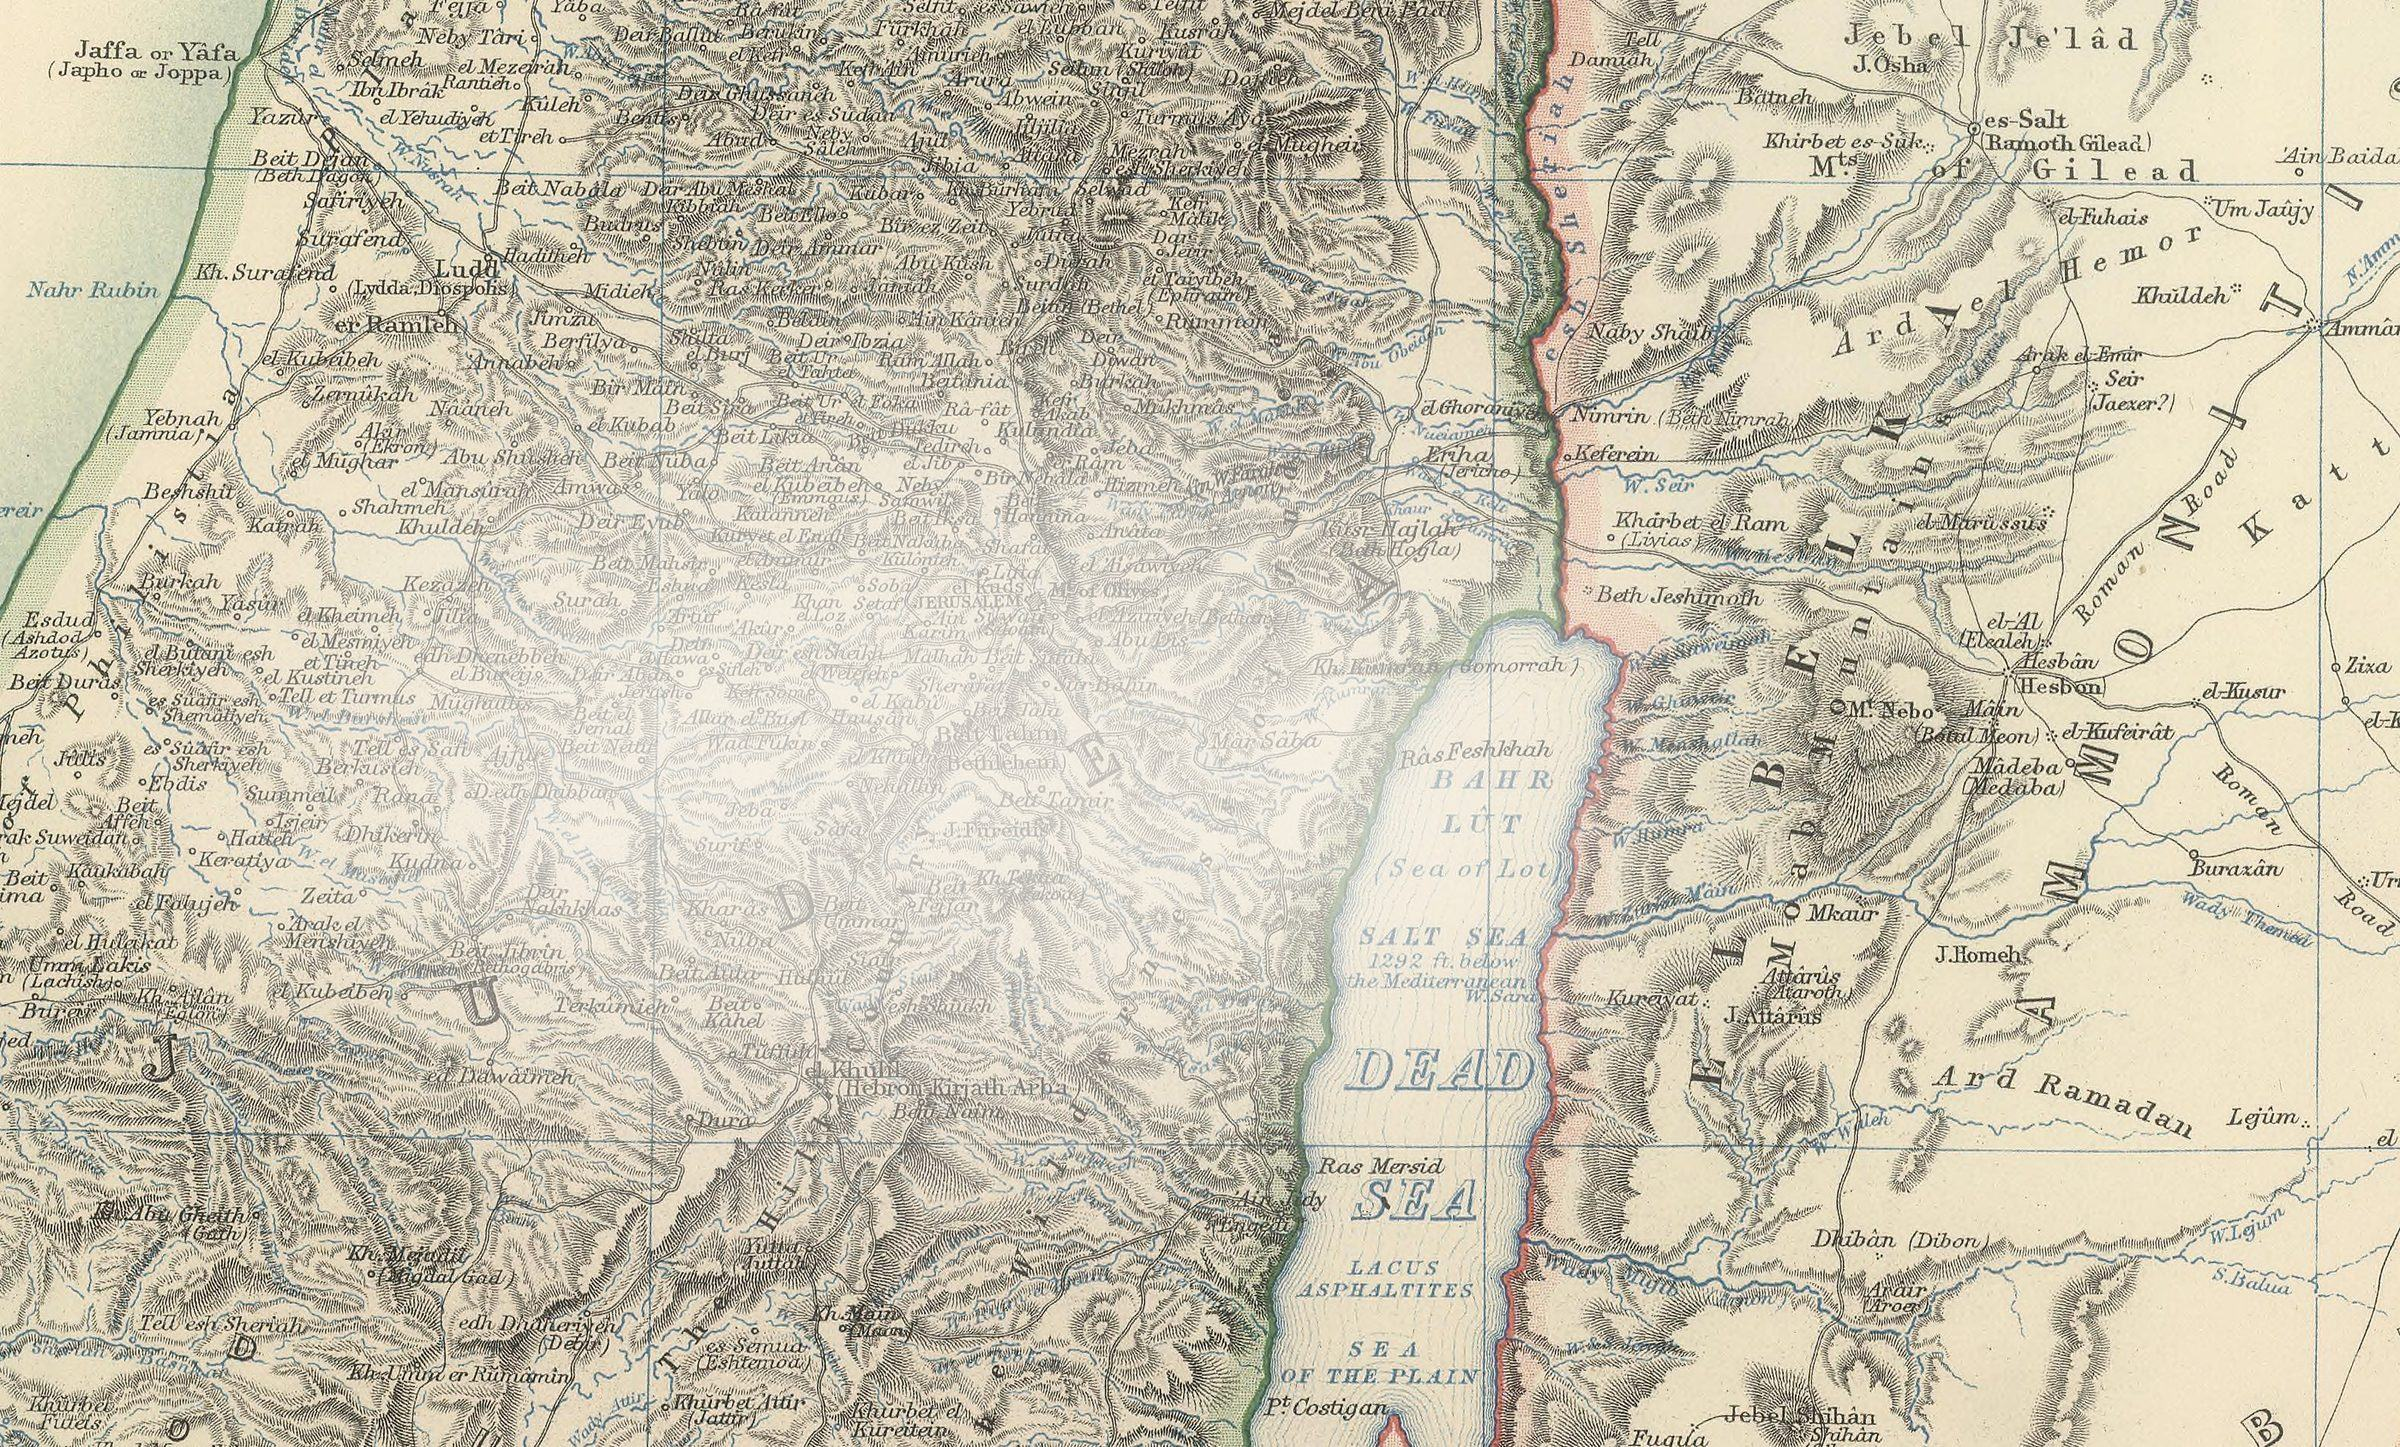
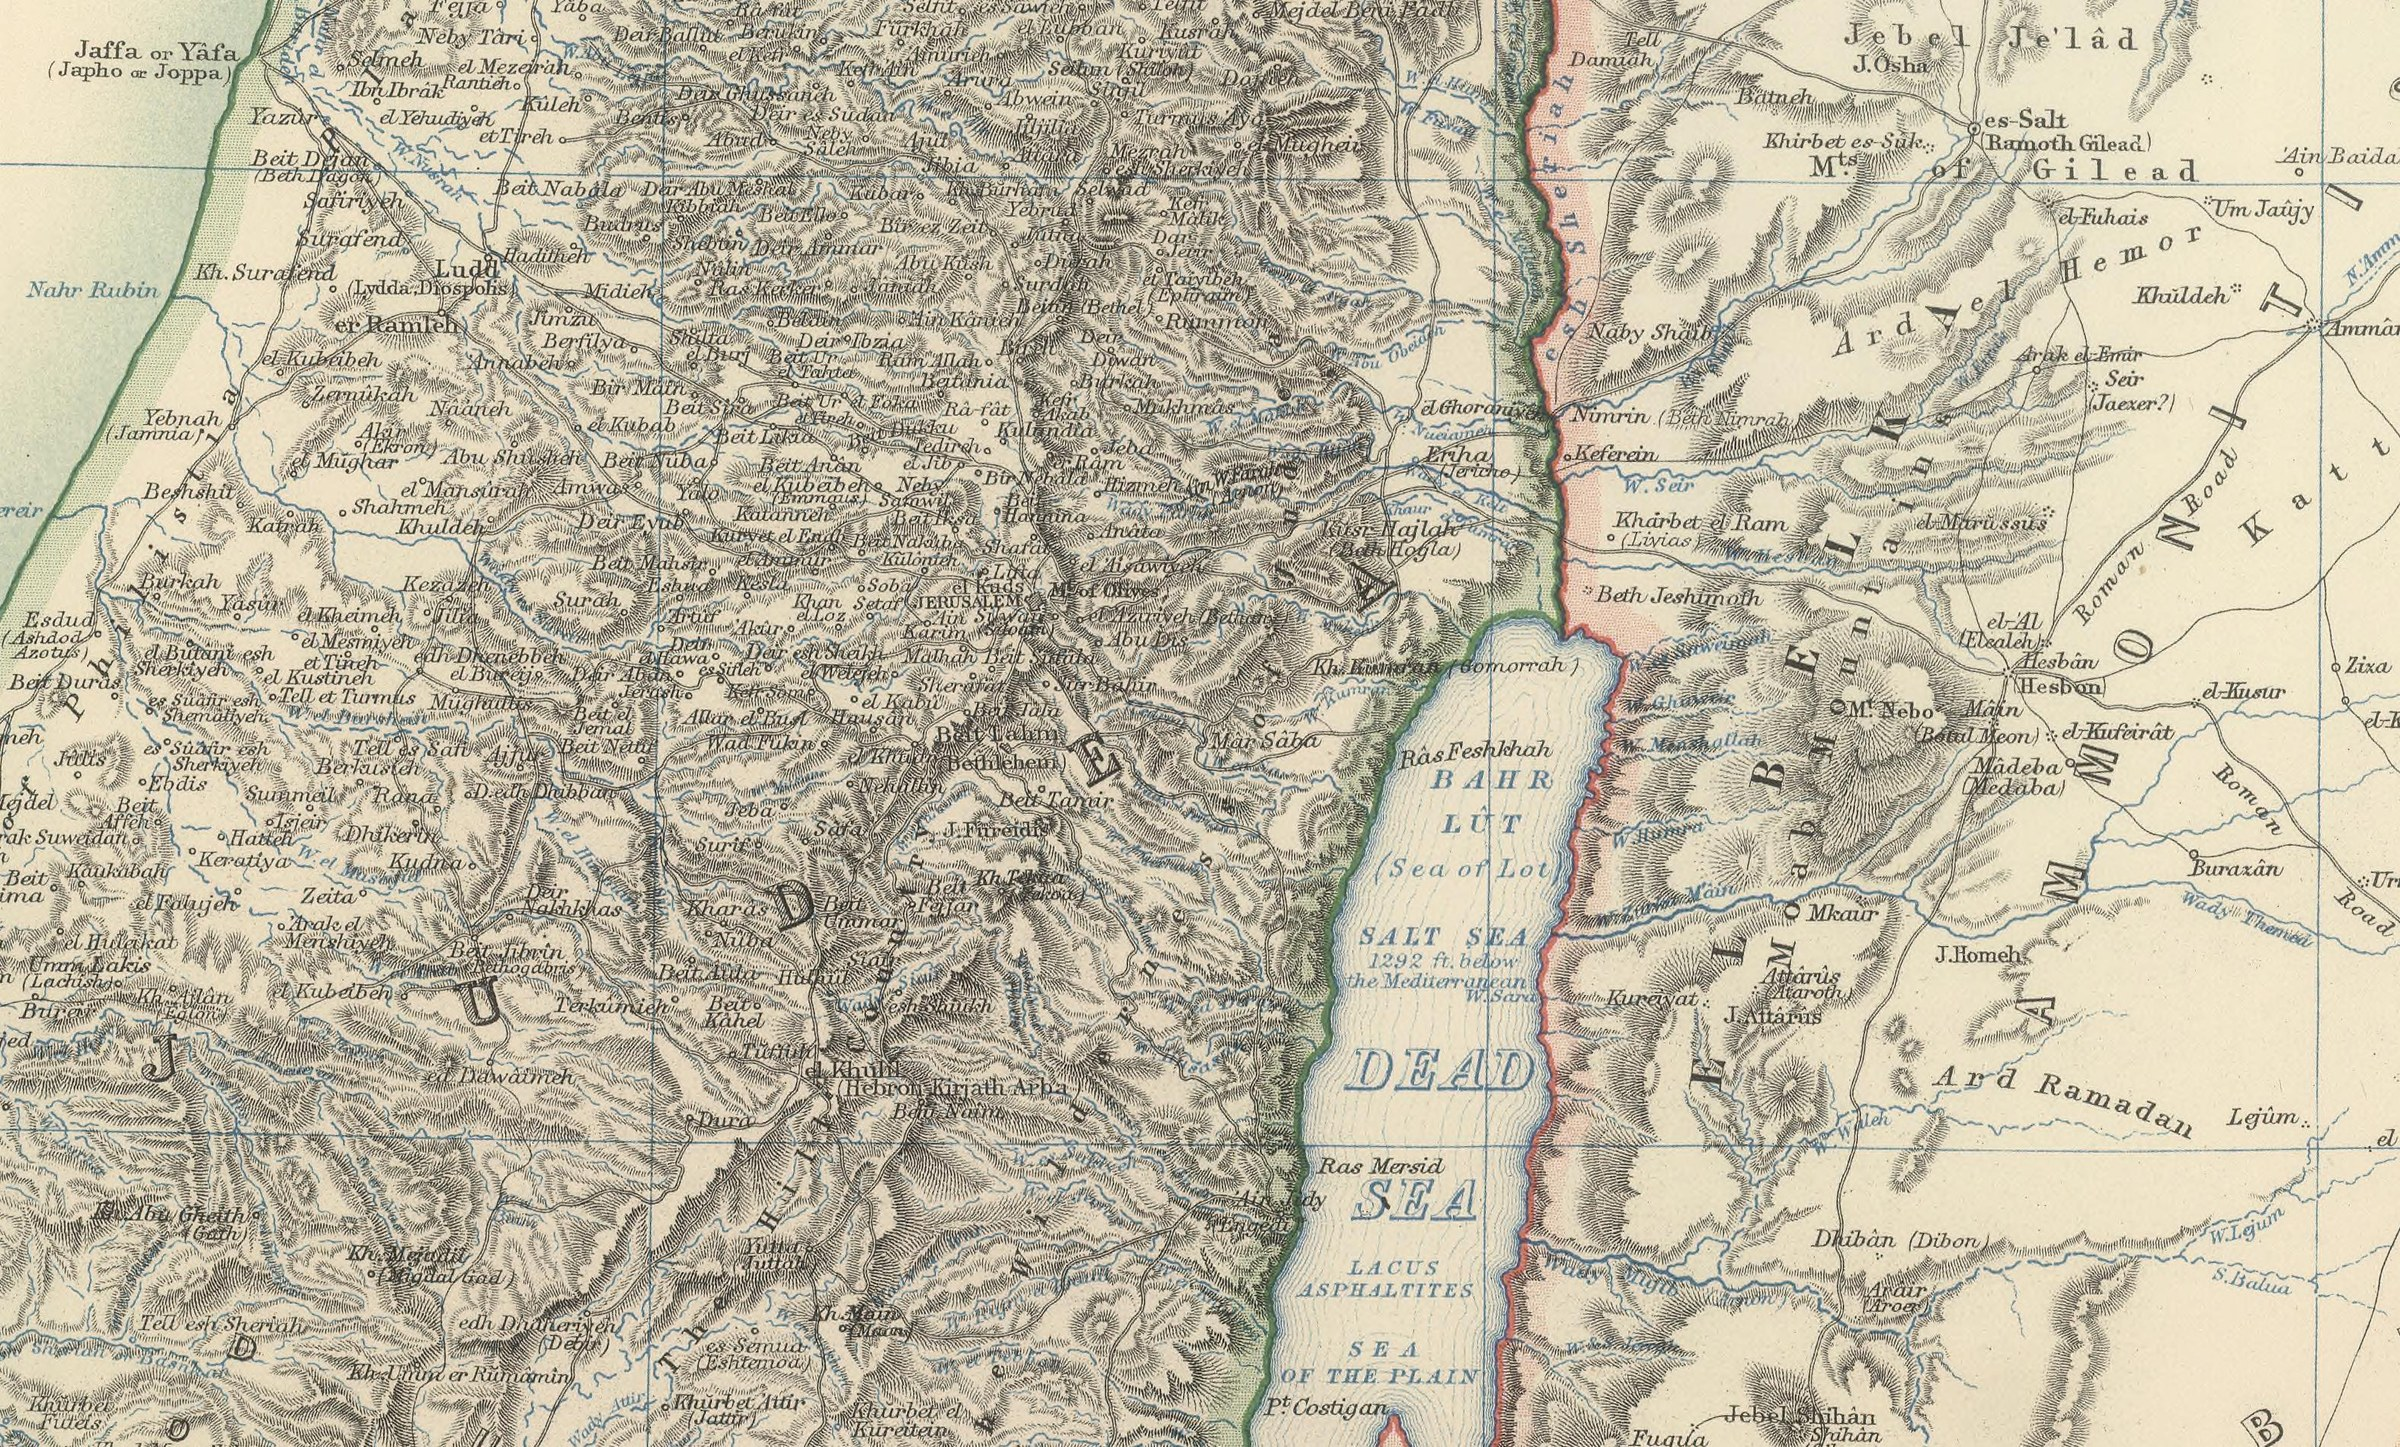
Publish site

diff --git a/styles.css b/styles.css
@@ -111,13 +111,18 @@ figure.painting img:focus-visible,
 }
 
 /* Graduated map hero (homepage): Stieler 1895, dissolving into the paper */
-.hero-visual { position: relative; height: 72vh; min-height: 480px; overflow: hidden; }
-@media (max-width: 700px) { .hero-visual { height: 52vh; min-height: 360px; } }
+.hero-visual { position: relative; height: clamp(480px, 72vh, 660px); overflow: hidden; }
+@media (max-width: 700px) { .hero-visual { height: clamp(360px, 52vh, 460px); } }
 .hero-visual picture { display: contents; }
 .hero-visual img {
   width: 100%; height: 100%;
   object-fit: cover;
-  object-position: center top;
+  /* Frame the centre of the Johnston detail, not its top: this brings
+     Jerusalem (in the pale band) and the Dead Sea into view instead of
+     cropping them off. object-position by percentage keeps the SAME slice of
+     the map on every screen size, so the framing is uniform across browsers
+     (William, 2026-07-13). */
+  object-position: center 42%;
 }
 .hero-visual::after {
   content: "";
@@ -160,6 +165,14 @@ figure.painting img:focus-visible,
    own red lettering. */
 @media (min-width: 1001px) { .hero-text { bottom: 84px; } }
 .hero-text .kicker { font-size: 0.95rem; letter-spacing: 0.18em; color: #7c2f22; }
+/* Keep each institution on one line, and on phones stack them (dropping the
+   middot) so the credit never wraps mid-name or orphans the separator
+   (William's iPhone, 2026-07-13). */
+.hero-text .kicker .inst { white-space: nowrap; }
+@media (max-width: 560px) {
+  .hero-text .kicker .kicker-sep { display: none; }
+  .hero-text .kicker .inst { display: block; }
+}
 /* The hero's source credit lives at the foot of the page (William's call,
    2026-07-07), quieter than the footer's own lines. */
 .footer-credit { font-size: 0.72rem; opacity: 0.85; }
@@ -379,7 +392,10 @@ figure.painting img:hover { opacity: 0.93; }
 .lightbox {
   position: fixed;
   inset: 0;
-  z-index: 500;
+  /* Above the sticky nav (z 1100) and skip-link (z 1200); at z 500 the nav
+     painted over the overlay and swallowed the close button near the top
+     edge (seen on Stefano's screen 2026-07-13). */
+  z-index: 2000;
   background: rgba(51, 42, 38, 0.94);
   display: flex;
   align-items: center;
@@ -618,8 +634,14 @@ figure.painting img:hover { opacity: 0.93; }
 .station-tip img { width: 180px; height: auto; margin-top: 6px; }
 .station-tip .tip-caption { font-size: 0.7rem; color: #75655d; margin-top: 4px; max-width: 180px; white-space: normal; }
 
-/* Team */
-.team { display: grid; grid-template-columns: repeat(auto-fit, minmax(215px, 1fr)); gap: var(--sp-lg); }
+/* Team: exactly four people, so fix the column count rather than letting
+   auto-fit wrap to an unbalanced 3+1 on wide screens (on a large viewport the
+   6vw hero padding hits its 96px cap and narrows the content column, so
+   auto-fit dropped to three columns - seen on Stefano's screen 2026-07-13).
+   Four across on desktop, 2x2 on tablet, single column on phones. */
+.team { display: grid; grid-template-columns: repeat(4, 1fr); gap: var(--sp-lg); }
+@media (max-width: 1040px) { .team { grid-template-columns: repeat(2, 1fr); } }
+@media (max-width: 460px) { .team { grid-template-columns: 1fr; } }
 .person { border-top: 2px solid var(--ink); padding-top: var(--sp-md); }
 .person h3 { font-size: 1.3rem; margin-bottom: var(--sp-xs); }
 /* A linked name keeps the ink of its unlinked neighbours, with a quiet

diff --git a/index.html b/index.html
@@ -16,7 +16,7 @@
 <meta name="twitter:card" content="summary_large_image">
 <link rel="icon" href="assets/favicon.svg?v=2" type="image/svg+xml">
 <link rel="stylesheet" href="https://unpkg.com/leaflet@1.9.4/dist/leaflet.css" integrity="sha256-p4NxAoJBhIIN+hmNHrzRCf9tD/miZyoHS5obTRR9BMY=" crossorigin="">
-<link rel="stylesheet" href="styles.css?v=a4c5bd9ce0">
+<link rel="stylesheet" href="styles.css?v=0731506563">
 </head>
 <body>
 
@@ -48,7 +48,7 @@
   <div class="hero-text">
     <div class="wrap">
       <h1>Rediscovering Victorian Women Travellers</h1>
-      <p class="kicker">University of Hertfordshire &middot; North Hertfordshire Museum</p>
+      <p class="kicker"><span class="inst">University of Hertfordshire</span><span class="kicker-sep"> &middot; </span><span class="inst">North Hertfordshire Museum</span></p>
       <p class="subtitle">Margaret Thomas, Henrietta Pilkington and the Victorian journey to Palestine and Syria</p>
     </div>
   </div>

diff --git a/404.html b/404.html
@@ -8,7 +8,7 @@
 <link rel="preconnect" href="https://fonts.gstatic.com" crossorigin>
 <link href="https://fonts.googleapis.com/css2?family=Fraunces:ital,opsz,wght@0,9..144,400;0,9..144,600;1,9..144,400;1,9..144,600&family=Cabin:wght@500;700&family=Source+Serif+4:ital,wght@0,400;0,600;1,400&display=swap" rel="stylesheet">
 <link rel="icon" href="/victorianwomentravellers/assets/favicon.svg?v=2" type="image/svg+xml">
-<link rel="stylesheet" href="/victorianwomentravellers/styles.css?v=a4c5bd9ce0">
+<link rel="stylesheet" href="/victorianwomentravellers/styles.css?v=0731506563">
 </head>
 <body>
 

diff --git a/artists.html b/artists.html
@@ -15,7 +15,7 @@
 <meta property="og:type" content="website">
 <meta name="twitter:card" content="summary_large_image">
 <link rel="icon" href="assets/favicon.svg?v=2" type="image/svg+xml">
-<link rel="stylesheet" href="styles.css?v=a4c5bd9ce0">
+<link rel="stylesheet" href="styles.css?v=0731506563">
 </head>
 <body>
 

diff --git a/contact.html b/contact.html
@@ -15,7 +15,7 @@
 <meta property="og:type" content="website">
 <meta name="twitter:card" content="summary_large_image">
 <link rel="icon" href="assets/favicon.svg?v=2" type="image/svg+xml">
-<link rel="stylesheet" href="styles.css?v=a4c5bd9ce0">
+<link rel="stylesheet" href="styles.css?v=0731506563">
 </head>
 <body>
 

diff --git a/project.html b/project.html
@@ -15,7 +15,7 @@
 <meta property="og:type" content="website">
 <meta name="twitter:card" content="summary_large_image">
 <link rel="icon" href="assets/favicon.svg?v=2" type="image/svg+xml">
-<link rel="stylesheet" href="styles.css?v=a4c5bd9ce0">
+<link rel="stylesheet" href="styles.css?v=0731506563">
 </head>
 <body>
 

diff --git a/visit.html b/visit.html
@@ -15,7 +15,7 @@
 <meta property="og:type" content="website">
 <meta name="twitter:card" content="summary_large_image">
 <link rel="icon" href="assets/favicon.svg?v=2" type="image/svg+xml">
-<link rel="stylesheet" href="styles.css?v=a4c5bd9ce0">
+<link rel="stylesheet" href="styles.css?v=0731506563">
 </head>
 <body>
 